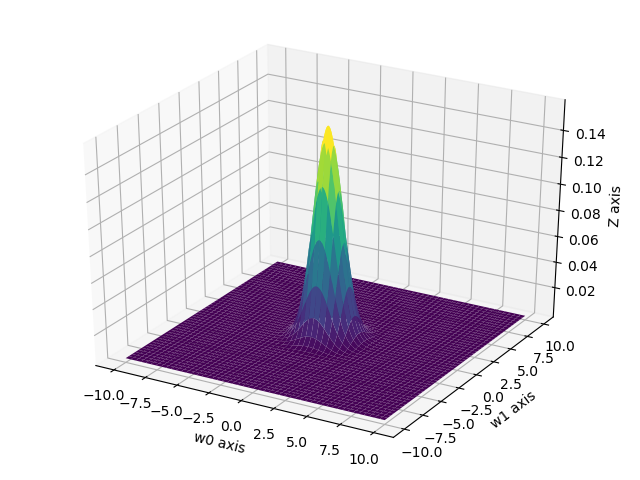
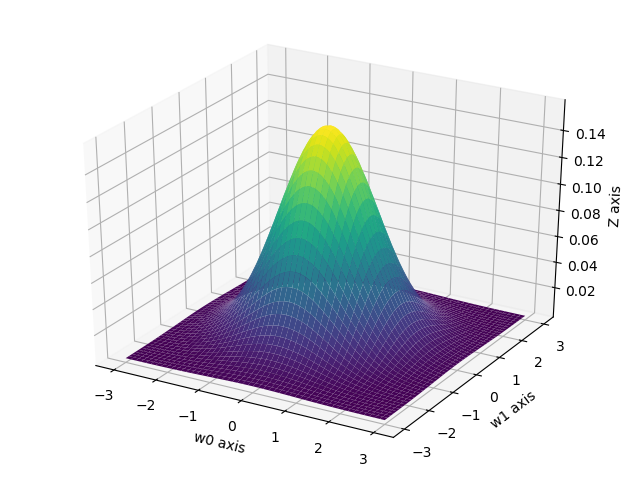
Finished with program

diff --git a/Assignment_1/LinearRegression.py b/Assignment_1/LinearRegression.py
@@ -32,11 +32,12 @@ def main():
     prior = generate2DPrior()
     likelihood = generateLikelihood2D()
 
-    n = 7
-    sampledIndices = np.random.random_integers(0, numberOfDataPoints-1, n)
+    numberOfTrainingSamples = 7
+
+    sampledIndices = np.random.randint(0, numberOfDataPoints-1, numberOfTrainingSamples)
     dataPointsX = np.array([])
     dataPointsT = np.array([])
-    for i in range(n):
+    for i in range(numberOfTrainingSamples):
         dataPointsX = np.append(dataPointsX, x[sampledIndices[i]])
         dataPointsT = np.append(dataPointsT, t[sampledIndices[i]])
 
@@ -50,7 +51,9 @@ def main():
     pb.title("Posterior Model Samples")
     pb.xlabel("w0")
     pb.ylabel("w1")
-    pb.show()
+    pb.xlim(-3, 3)
+    pb.ylim(-3, 3)
+    pb.show(    )
 
     #Prep plot for prior and posterior
     x = np.linspace(-3, 3, 500)
